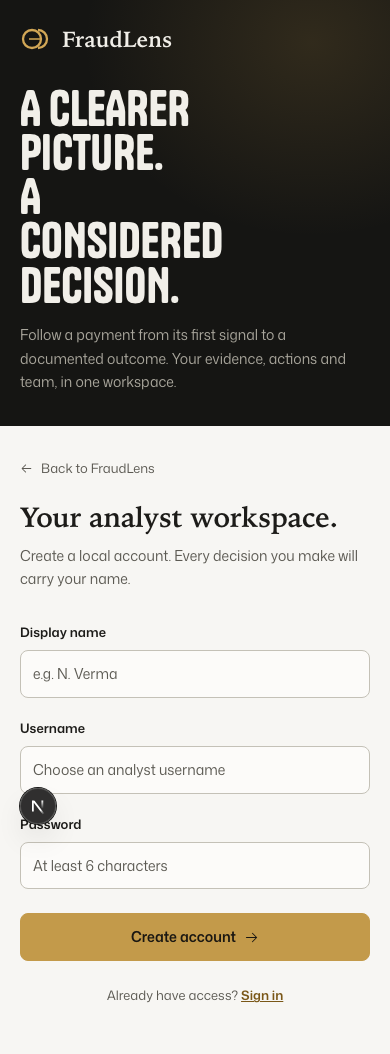
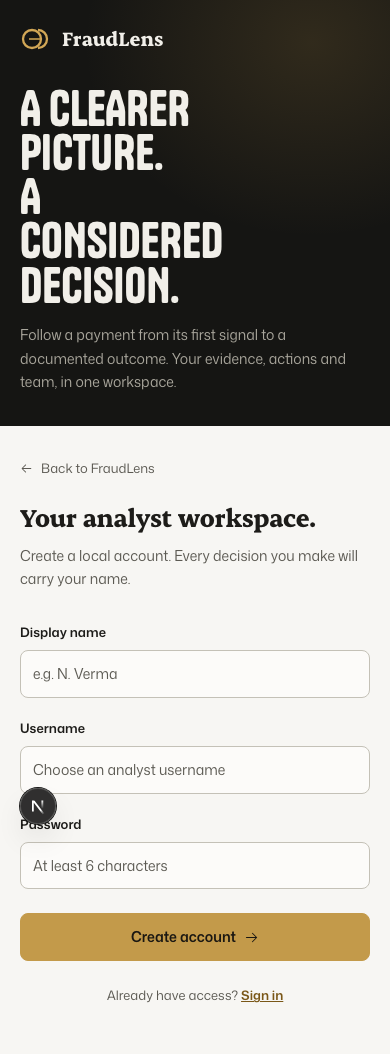
docs: Stage B verification, Lighthouse results and refreshed v4 screenshots

Changed region(s): [[0.0615, 0.4858, 0.8615, 0.5161], [0.1538, 0.0304, 0.4308, 0.0607]]

diff --git a/docs/VERIFICATION.md b/docs/VERIFICATION.md
@@ -1,5 +1,51 @@
 # Verification record
 
+## Visual redesign, Stage B (20 October 2026)
+
+Branch `feature/fraudlens-v3`, local machine only. Nothing was pushed or deployed. Graphite + brass palette with Tanker, Erode, Mona Sans and Courier Prime, chosen by the user from `docs/design/palette-concepts.html` and `docs/design/type-concepts.html`. Design record: [DESIGN.md](../DESIGN.md); audits: [before](design/audit-before.md), [after](design/audit-after.md).
+
+| Check | Command | Observed result |
+| --- | --- | --- |
+| Backend suite | `.venv/bin/python -m unittest discover -s tests` | **232 tests, OK, 0 skipped** (61.6 s). |
+| Frontend tests | `npm --prefix frontend run test` | **55 passed** (19 files), including `app/tokens.test.ts` (no raw colour outside `app/tokens.css`) and the software-WebGL fallback test in `LensScene.test.tsx`. |
+| Lint, types | `npm --prefix frontend run lint`, `cd frontend && npx tsc --noEmit` | Passed, no warnings. |
+| Production build | `npm --prefix frontend run build` (dev server stopped) | Passed; 15 routes (the redirect-only `/feed`, `/fraud-dna` and `/network/explore` were removed in Stage A). |
+| Design audit | `unslop:audit` checklist + `anti-slop` law | **59 → 97** (17/29 → 28/29 applicable checks). The remaining partial item is the hero's kicker and button-plus-link copy, which this stage could not change. |
+
+### Checked in the browser
+
+Scripted Playwright (Chromium headless shell) against `scripts/dev.py`, signed in as R. Iyer (L2); landing screenshots retaken with Chrome for Testing so the GPU lens renders. Screenshots: [docs/screenshots/v4/](screenshots/v4/).
+
+- **All 14 pages at 390 × 844 and 1280 × 800** (landing, login, signup, attack, dashboard, investigations, case, team, transactions, connections, bank, reports, audit, guidance): **0 px horizontal overflow and 0 console errors** on every page, rechecked after Erode started loading.
+- **Contrast.** Every token text/background pair passes WCAG AA; the lowest is caution on caution tint, 5.26:1 (full table in [audit-after.md](design/audit-after.md)). `contrast-check.mjs` on rendered `/`, `/attack` and `/login`: all sampled pairs pass (the landing had 2 failures before).
+- **Keyboard.** Tabbing landing, attack and dashboard at both widths: every focused element shows a 2 px ring (brass on graphite, dark brass on stone; two mobile top-bar items resolve to an ink ring, 15:1). The mobile drawer takes focus, traps Tab, closes on Escape and returns focus to the menu button.
+- **Reduced motion** (emulated `prefers-reduced-motion: reduce`): the landing shows the SVG lens and creates no WebGL canvas; parallax is off; the golden-hour locks are static. With motion allowed and a GPU (in-app browser, ANGLE Metal on Apple M4), the 3D lens renders. With software WebGL (SwiftShader), the static lens is kept.
+
+### Lighthouse on the landing
+
+Lighthouse 12.8.2 with Chrome for Testing 156 (headless, hardware GPU), against `next start` serving the production build on this machine. Default mobile settings (simulated slow 4G, 4× CPU throttle) and `--preset=desktop`. Scores are Performance / Accessibility / Best Practices / SEO; the pre-redesign landing (`70a9877`, built the same way in a temporary worktree) ran alternately in the same session, three runs each, because this machine's load made single runs noisy.
+
+| Landing | Mobile | Desktop | Mobile FCP / LCP | Mobile TBT |
+| --- | --- | --- | --- | --- |
+| Before Stage B (`70a9877`) | 38–57 / 97 / 100 / 91 | 83–95 / 97 / 100 / 91 | 1.7–2.9 s / 4.9–5.8 s | 1.1–4.1 s |
+| After Stage B (final) | 38–47 / **100** / 100 / 91 | 75–86 / **100** / 100 / 91 | 2.5–2.7 s / 5.5–12.1 s | 2.1–11.9 s |
+
+Fixes made after the first measurement (mobile 33, TBT 20 s, LCP 20 s):
+- Tanker and Erode are declared in `app/fonts.css` against Fontshare's CDN instead of linking Fontshare's stylesheet. This removed a render-blocking request to a second origin, and it fixed a real bug: the combined stylesheet request returned only Tanker, so Erode had been falling back to the system serif.
+- The lens skips WebGL when the browser reports a software renderer (no GPU) and keeps the complete SVG lens.
+- The studio-reflection environment renders at 64 px instead of 256 px.
+- Tried and reverted: starting the lens only once the browser was idle (it moved the work into the measured window and made desktop worse).
+
+Recorded, not fixed:
+- **Mobile performance is still below the old landing.** First paint is about 0.9 s later because the fonts come from a third-party origin, and the 3D lens costs main-thread time on a throttled CPU. Serving the two fonts from our own origin (downloaded during the Docker build, never committed, which the licence allows) would remove the first cost; it is a larger change than this stage allowed.
+- **SEO 91 before and after:** `/robots.txt` returns the app's HTML because the console proxy does not exclude it.
+- Accessibility rose from 97 to 100 (the old landing failed `color-contrast`).
+
+### Not verified
+
+- A real phone (performance of the 3D lens on a mobile GPU, touch scrolling), a screen-reader pass, and browsers other than Chromium.
+- Lighthouse on the deployed Render site (only local production builds were measured).
+
 ## Legacy pipeline removed (20 October 2026)
 
 Branch `feature/fraudlens-v3`. The hackathon pipeline is preserved at the local `legacy-hackathon` tag (not pushed). Removed: the legacy API routes (`/transactions`, `/cases`, `/reports`, `/decisions`, `/copilot`, `/stats`, `/console`, `/live`) and `case_cache.py`; `core/{compliance,copilot,dna,reports}`, `core/graph/builder.py`, `core/cases/{case_engine,decision_workflow,autonomous_action}.py`, `core/privacy.py`; `evaluation/{benchmark,validate_ulb}.py` and `data/ulb_validation.json`; `scripts/run_demo.py`, `scripts/setup_groq_key.sh`; dead frontend components and libraries; the redirect-only `/feed`, `/fraud-dna` and `/network/explore` pages; and the tests that covered only that code. Kept: `core/auth`, `core/scoring`, `core/graph/community.py` and `core/cases/account_restriction.py` (the detector's agents use them) and `data/synthetic_generator.py`.

diff --git a/DESIGN.md b/DESIGN.md
@@ -29,8 +29,8 @@ Pending states (a request not yet acknowledged, an unresolved case) use a **dash
 
 | Role | Face | Source |
 | --- | --- | --- |
-| Landing and attack headlines | Tanker (condensed poster capitals) | Fontshare API (ITF Free Font License forbids redistributing the files from this repository) |
-| Page titles and section headings | Erode (1970s serif) | Fontshare API |
+| Landing and attack headlines | Tanker (condensed poster capitals) | Fontshare CDN, declared in `app/fonts.css` (the ITF Free Font License forbids redistributing the files from this repository) |
+| Page titles and section headings | Erode (1970s serif) | Fontshare CDN, declared in `app/fonts.css` |
 | Body and controls | Mona Sans Variable | bundled `@fontsource-variable/mona-sans` (OFL) |
 | IDs, amounts, scores, timestamps | Courier Prime (typewriter) | bundled `@fontsource/courier-prime` (OFL) |
 
@@ -50,7 +50,7 @@ Three radii by role: chips 4 px, controls 8 px, surfaces 14 px. Depth comes from
 
 ## Landing
 
-Chapters alternate graphite and stone: the opening, the sample incident (the page's peak) and the ending sit on graphite. The hero is three planes: brass light from the upper right with fine grain, the Three.js lens (blackened steel, brass bezel, smoky glass, studio reflections, colours read from the `--lens-*` tokens), and the Tanker headline crossing in front of it, with slight opposing parallax from the unchanged Scrollcraft engine. A complete SVG lens (`LensPoster.tsx`) shows when WebGL is absent, the visitor pauses 3D, or reduced motion is requested. Offscreen and hidden-page rendering stops; GPU resources are disposed on cleanup. Content is visible by default.
+Chapters alternate graphite and stone: the opening, the sample incident (the page's peak) and the ending sit on graphite. The hero is three planes: brass light from the upper right with fine grain, the Three.js lens (blackened steel, brass bezel, smoky glass, studio reflections, colours read from the `--lens-*` tokens), and the Tanker headline crossing in front of it, with slight opposing parallax from the unchanged Scrollcraft engine. A complete SVG lens (`LensPoster.tsx`) shows when WebGL is absent or software-rendered (no GPU), the visitor pauses 3D, or reduced motion is requested. Offscreen and hidden-page rendering stops; GPU resources are disposed on cleanup. Content is visible by default.
 
 ## Evidence and maintenance
 

diff --git a/docs/design/audit-after.md b/docs/design/audit-after.md
@@ -60,5 +60,6 @@ S3 (touch targets) is again excluded: mobile menu, search, account and primary c
 
 - **L1 (partial).** The hero no longer reads as the stock left-column stack: the poster headline is the bottom plane crossing in front of the lens, and the lead sits top-left. But the copy is fixed, so a kicker line ("Financial crime. In focus.") and a button-plus-link pair remain.
 - **Copy-level tells kept on purpose** (copy must not change in this stage): two em dashes in the golden-hour paragraph, the repeated agent-brief and "why flagged" reason lists on the case page, the "Inside an incident" and "The golden hour" kickers.
-- **Fonts load from Fontshare's API** at runtime; offline or blocked, Tanker and Erode fall back to Impact/Arial Narrow and Georgia.
-- Not checked: Lighthouse performance on the landing, a real phone, a screen reader, browsers other than Chromium.
+- **Fonts load from Fontshare's CDN** at runtime (declared in `app/fonts.css`); offline or blocked, Tanker and Erode fall back to Impact/Arial Narrow and Georgia. The first Stage B commit linked Fontshare's stylesheet with one combined request that returned only Tanker, so Erode was silently falling back to the system serif; the later fix declares each face directly.
+- **Mobile Lighthouse performance is lower than before the redesign** (see `docs/VERIFICATION.md`, Stage B): the third-party font origin delays first paint by about 0.9 s on simulated 4G, and the 3D lens costs main-thread time on a throttled CPU. Serving Tanker and Erode from our own origin (fetched at Docker build time, not committed) would remove the first cost.
+- Not checked: a real phone, a screen reader, browsers other than Chromium.
